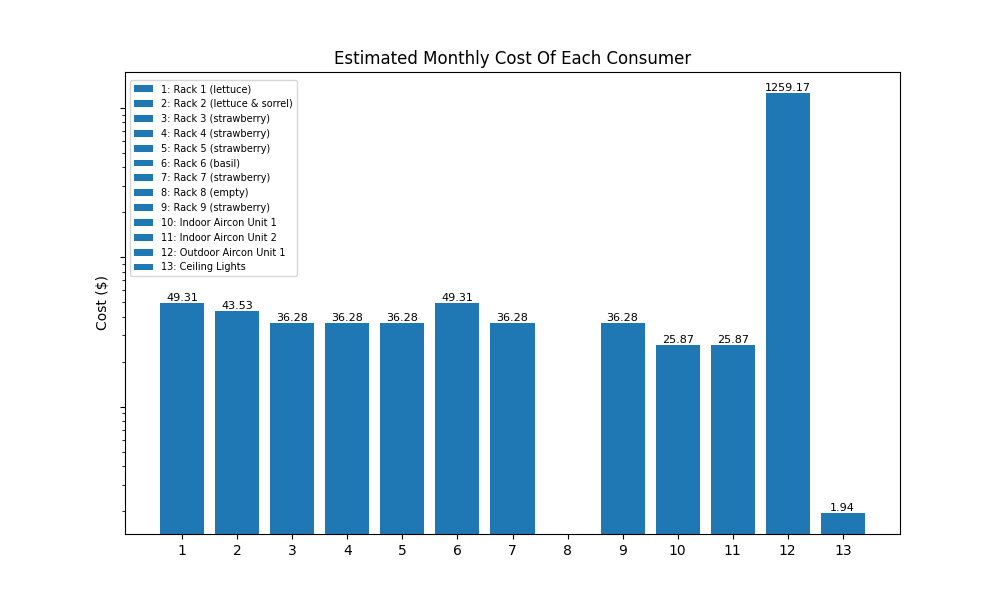
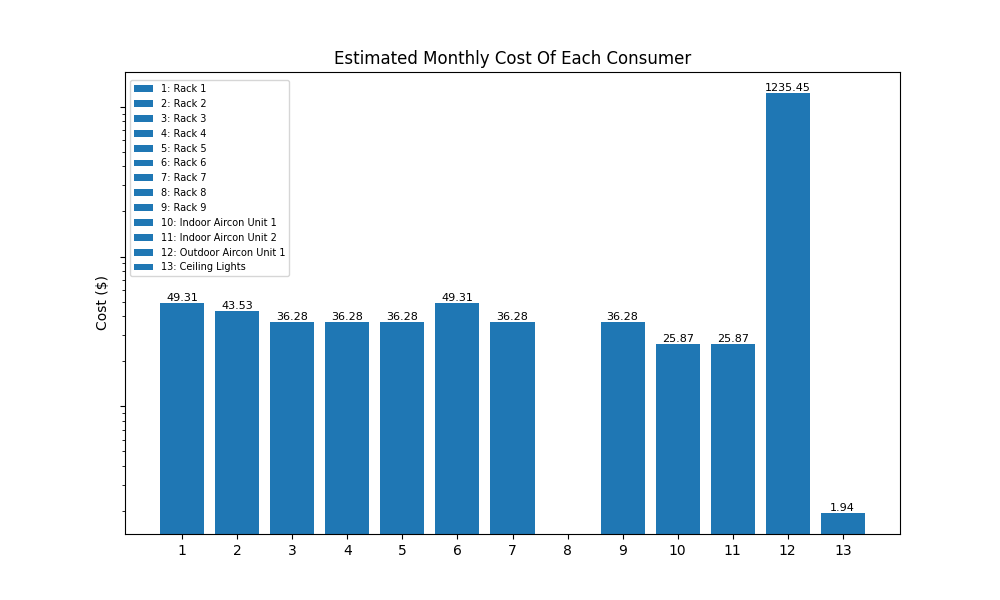
Fixed aircon's calculations and updated result

diff --git a/analysis/MonthlyCostEstimation.py b/analysis/MonthlyCostEstimation.py
@@ -82,7 +82,7 @@ def get_other_empc():
     # Indoor aircon unit
     indoor_aircon_empc = INDOOR_AIRCON_FAN * 24 * num_days 
     # Outdoor aircon unit
-    outdoor_aircon_empc = (((OUTDOOR_AIRCON_COOLING_MAX + OUTDOOR_AIRCON_COOLING_MIN)/2) + ((OUTDOOR_AIRCON_COMPRESSOR_MAX + OUTDOOR_AIRCON_COMPRESSOR_NORM)/2) + OUTDOOR_AIRCON_FAN) * 24 * num_days 
+    outdoor_aircon_empc = (((OUTDOOR_AIRCON_COOLING_MAX + OUTDOOR_AIRCON_COOLING_MIN)/2) + OUTDOOR_AIRCON_COMPRESSOR_NORM + OUTDOOR_AIRCON_FAN) * 24 * num_days 
     # to be updated once more data for ambient comes in
     ceiling_light_empc = CEILING_LIGHT_POWER * NO_OF_LIGHTS * 1 * num_days
 
@@ -152,7 +152,9 @@ def plot_bar_chart(df, y_col, title, file_name):
     df['Plant Type'] = df['Plant Type'].fillna('')
 
     # Create a new column with the label
-    df['Label'] = df.apply(lambda row: f"{row['Consumer']} ({row['Plant Type']})" if row['Plant Type'] else row['Consumer'], axis=1)
+    df['Label'] = df['Consumer']
+    # df['Label'] = df.apply(lambda row: f"{row['Consumer']} ({row['Plant Type']})" if row['Plant Type'] else row['Consumer'], axis=1)
+
     
     # Plotting chart
     plt.figure(figsize=(10, 6))
@@ -278,11 +280,11 @@ def get_other_edpc():
     # edpc based on each device's specifications, operating hours and number of days
 
     # Indoor aircon unit (operating input + indoor fan motor)
-    indoor_aircon_edpc = 120 * 24
+    indoor_aircon_edpc = INDOOR_AIRCON_FAN * 24
     # Outdoor aircon unit (compressor + outdoor fan motor)
-    outdoor_aircon_edpc = (((4795 + 855)/2) + ((3040 + 2820)/2) + 85) * 24 
+    outdoor_aircon_edpc = (((OUTDOOR_AIRCON_COOLING_MAX + OUTDOOR_AIRCON_COOLING_MIN)/2) + OUTDOOR_AIRCON_COMPRESSOR_NORM + OUTDOOR_AIRCON_FAN) * 24
     # to be updated once more data for ambient comes in
-    ceiling_light_edpc = 36 * 6 * 1
+    ceiling_light_edpc = CEILING_LIGHT_POWER * NO_OF_LIGHTS * 1
 
     return indoor_aircon_edpc, outdoor_aircon_edpc, ceiling_light_edpc
 
